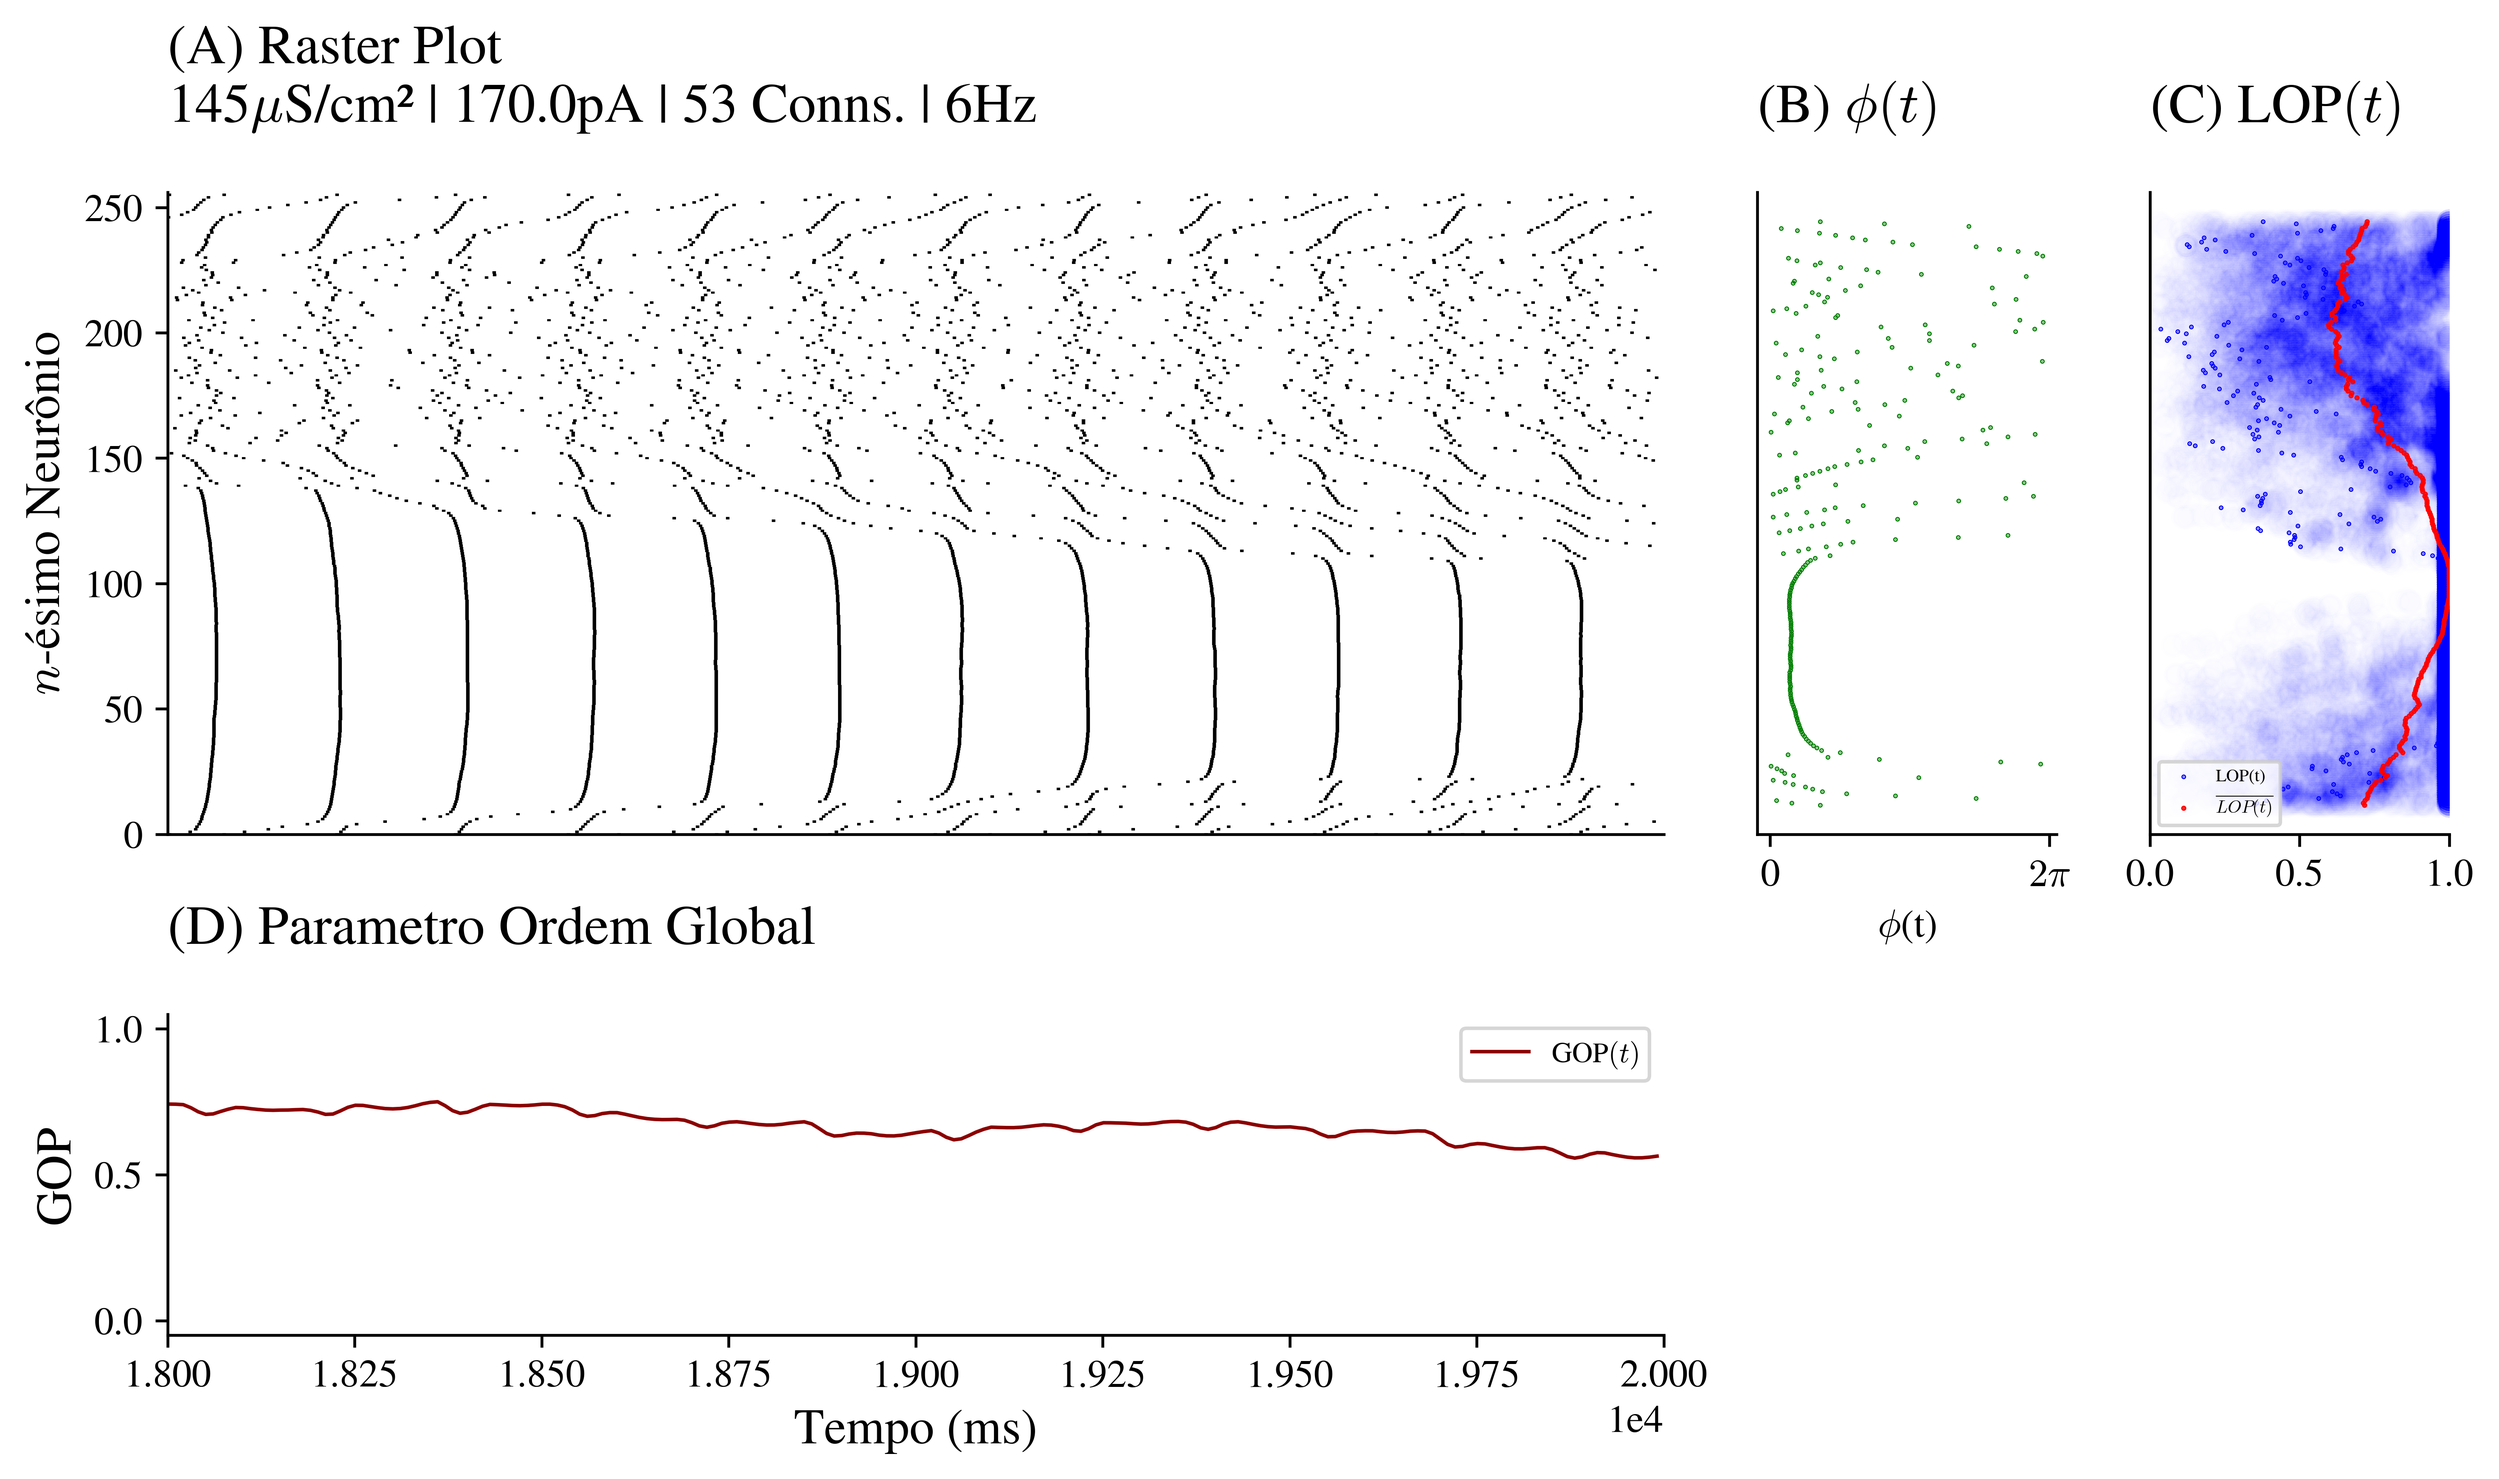
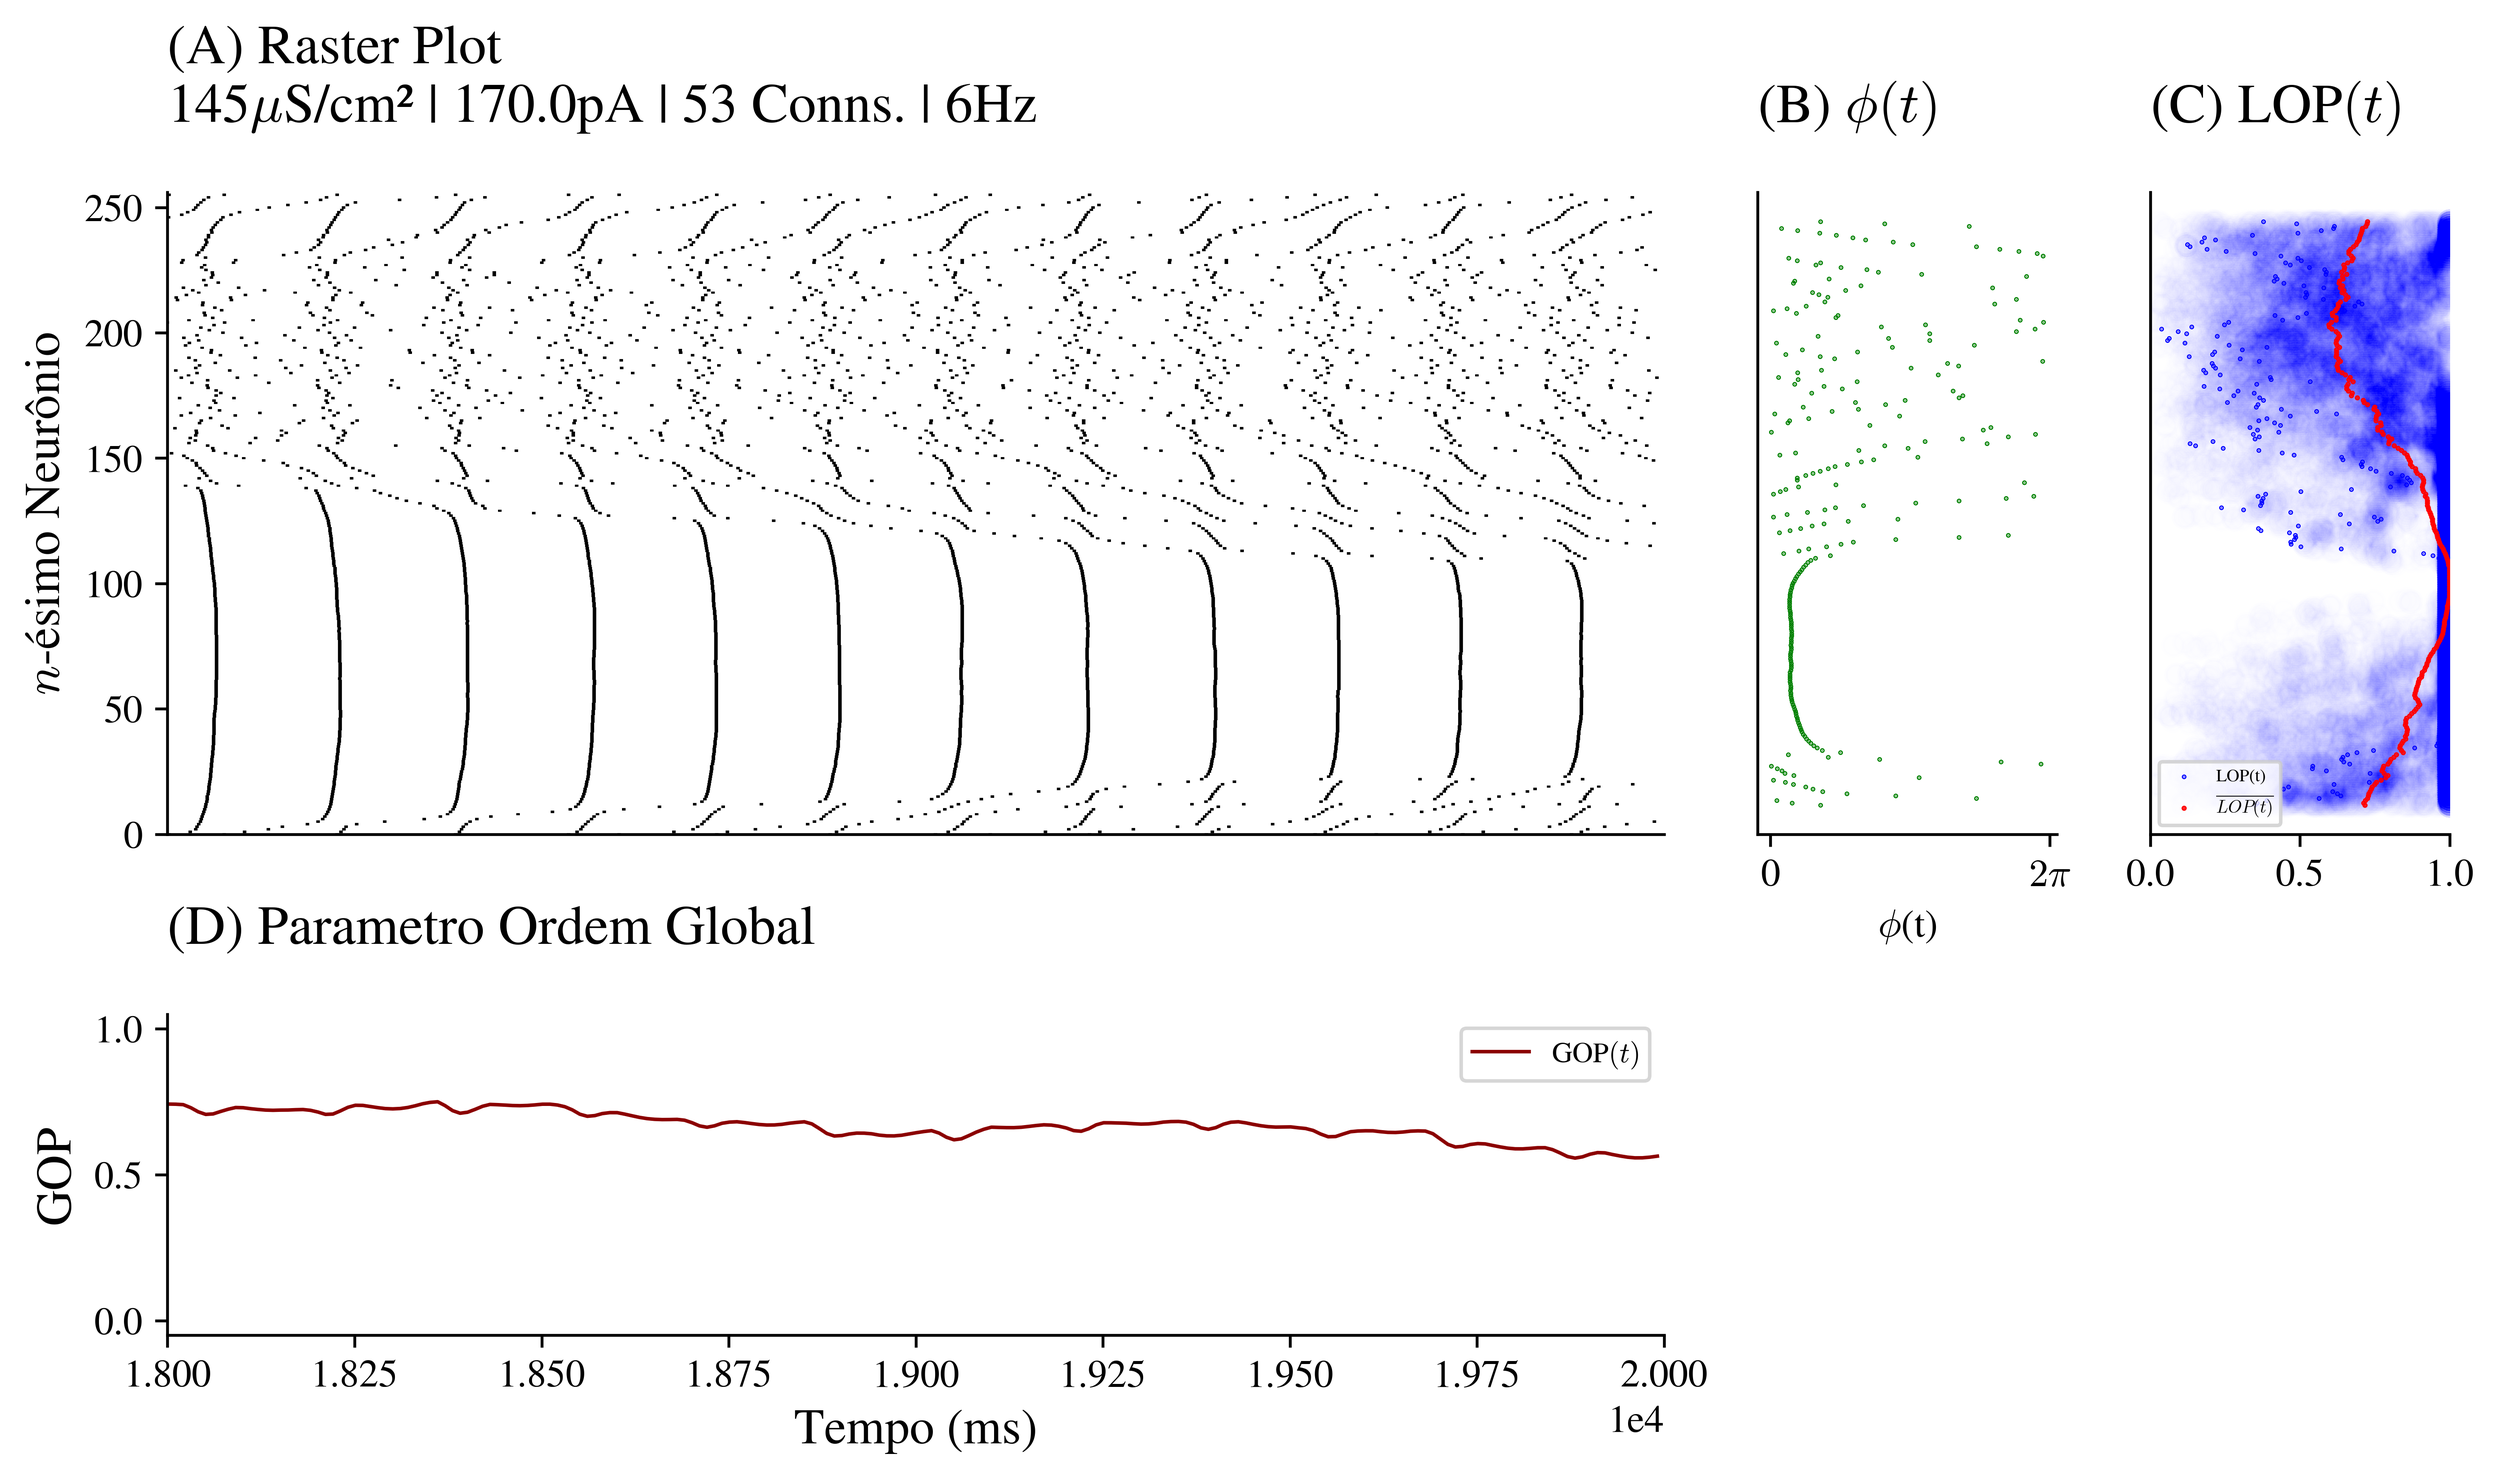
codes and figures

diff --git a/pycodes/plotNetwork.py b/pycodes/plotNetwork.py
@@ -5,6 +5,35 @@ import matplotlib.font_manager
 import os
 import sys
 
+def get_matriz_Adjacência(n, p, numExtraConex = 0):
+    conex = np.zeros((n, n))  # acoplamento não-local
+    for i in range(n):
+        for k in range(i - p, i + p + 1):
+            j = k % n  # Utilize o operador de módulo para garantir que j permaneça dentro do intervalo correto
+            if i != j:
+                conex[i, j] = 1  # Defina 1 para representar a existência de uma aresta
+
+    # Introduzir conexões aleatórias
+    conex_smll = np.zeros_like(conex)
+    conex_smll += conex
+
+    for linha, conexoes in enumerate(conex_smll):
+        for conexExtra in range(numExtraConex):
+            idx_nova_conex = np.random.randint(0, n)  # gera índice aleatório de 0 a n
+            if idx_nova_conex == 0 or idx_nova_conex == n:
+                idx_nova_conex = idx_nova_conex % n
+
+            if conexoes[idx_nova_conex] != 1:
+                conexoes[idx_nova_conex] = 1
+
+    # Remover autoconexões
+    for i in range(n):
+        conex_smll[i, i] = 0
+
+    return conex_smll
+
+
+
 def plot_params():
     # plt.rc('text', usetex=True)
     plt.rc('font', size=13)
@@ -14,23 +43,18 @@ def plot_params():
     plt.rc('legend', fontsize=8)
     plt.rc('lines', linewidth=1.0)
     plt.rcParams["axes.formatter.limits"] = (-3, 4)
-    # plt.rc('font', **{'family': 'serif', 'serif': ['Computer Modern']})
+    plt.rc('font', **{'family': 'serif', 'serif': ['Computer Modern']})
     plt.rcParams['mathtext.fontset'] = 'cm'
     plt.rcParams['font.family'] = 'STIXGeneral'
 
 plot_params()
 
 v = str(sys.argv[1])
-batch = sys.argv[2]
-batch_number = 'batch'+str(batch.zfill(4))
-subbatch = sys.argv[3]
-subbatch_number = '0_'+str(subbatch)
-# file = f'../data3/v{v}_{batch_number}/v{v}_{batch_number}_{subbatch_number}'
-folder = f'../data/v{v}_{batch_number}/'
-file = f'../data/v{v}_{batch_number}/v{v}_{batch_number}_0'
+i = str(sys.argv[2])
+j = str(sys.argv[3])
+folder = f'figuresV2'
+file = f'../{folder}/v{v}_batch1_{i}_{j}'
 
-# file = f'../data/v{v}_batch{batch}/v{v}_batch{batch}_0_{subbatch}'
-# file = f'../data/v0_batch0/v0_batch0'
 print('~~ Plot Raster, LOP, Phase and GOP.')
 print(f'Reading: "{file}"')
 
@@ -44,9 +68,7 @@ neighbours = data['simConfig']['n_neighbors']
 freq_mean = data['freq_bar'].mean()
 coresPerNode = data['simConfig']['coresPerNode']
 
-neuronsPerCore = int(cellNumber)/int(coresPerNode)
-
-infos = f'{neuronsPerCore} neuronios por core'
+adj_matrix = get_matriz_Adjacência(cellNumber, neighbours, 0)
 
 x = np.zeros(cellNumber)
 z = np.zeros(cellNumber)
@@ -60,10 +82,18 @@ cm = 1/2.54  # centimeters in inches
 f, ax = plt.subplots(figsize=(12*cm, 12*cm))
 ax.spines['right'].set_visible(False)
 ax.spines['top'].set_visible(False)
-ax.scatter(x,z, s=0.5, color='black')
+
+# Traçar linhas com base na matriz de adjacência
+for i in range(len(x)):
+    for j in range(len(x)):
+        if adj_matrix[i, j] != 0:
+            ax.plot([x[i], x[j]], [z[i], z[j]], linestyle='-', color='blue', alpha=0.05)
+
+ax.scatter(x,z, s=5, color='black')
 ax.set_xlabel('$X$  $(\mu m)$')
 ax.set_ylabel('$Z$  $(\mu m)$')
-ax.set_title(infos, fontsize=11, loc='left', pad=20)
 
-print('->'+f'../AnalysisV{v}_n{len(x)}_{gex}Scm2_{amp:.1f}pA_r{neighbours/cellNumber:.2f}neigh_{int(freq_mean)}Hz.png')
-plt.savefig(folder+f'NetWorkV{v}_n{len(x)}_{gex}Scm2_{amp:.1f}pA_r{neighbours/cellNumber:.2f}neigh_{int(freq_mean)}Hz.png', dpi=600, bbox_inches='tight', format='png')
+# ax.set_xlim(40,60)
+# ax.set_ylim(0,20)
+
+plt.savefig(file+'_rede.png', dpi=600, bbox_inches='tight', format='png')

diff --git a/pycodes/plotSpace.py b/pycodes/plotSpace.py
@@ -103,6 +103,7 @@ import pickle
 import numpy as np
 from matplotlib import pyplot as plt
 import matplotlib.colors as mcolors
+import matplotlib.ticker as plticker
 from matplotlib.colors import LinearSegmentedColormap, ListedColormap
 import locale
 import latex
@@ -125,9 +126,10 @@ def plot_params():
     plt.rcParams['pcolor.shading'] = 'nearest'
 plot_params()
 
-file = 'space_param_v2_batch1_copy'
+
 
 v = 1
+file = f'space_param_v{v}_batch1'
 resol = 32
 with open(f'../results_spaceparams/{file}.pkl', 'rb') as f:
     data_space_param = pickle.load(f)
@@ -165,8 +167,8 @@ fig, ax = plt.subplots(ncols=2, nrows=2, figsize=(8,6))
 fig.set_tight_layout(20)
 # fig.suptitle('Rede de 256 neurônios, transiente 24s, amostra 1s,\n $g_{ex} = 250 \\mu S/cm²$')
 
-# tg, ig = np.meshgrid(axis_neighbours[1:]/256, axis_gex[1:])
-tg, ig = np.meshgrid(axis_amp[1:]*1000, axis_gex[1:])
+tg, ig = np.meshgrid(axis_neighbours[1:]/256, axis_gex[1:])
+# tg, ig = np.meshgrid(axis_amp[1:]*1000, axis_gex[1:])
 
 # ax[0][0].set_title('$\overline{GOP(t)}$')
 ax[0][0].set_title('(A)', loc='left',pad=10)
@@ -192,16 +194,20 @@ hm02 = ax[1][1].pcolor(ig, tg, mean_cv_arr, cmap='gnuplot')
 cbar02 = fig.colorbar(hm02, ax=ax[1][1])#, cax=cax1, format=formater)
 cbar02.set_label(r'$CV$')
 
-# for linha in ax:
-#     for coluna in linha:
-#         coluna.set_ylim(None,0.4)
-#         coluna.set_xlim(1e-4,3.5e-4)
+step_y = plticker.MultipleLocator(base=0.05) # this locator puts ticks at regular intervals
+step_x = plticker.MultipleLocator(base=0.5e-4)
+for linha in ax:
+    for coluna in linha:
+        coluna.yaxis.set_major_locator(step_y)
+        coluna.xaxis.set_major_locator(step_x)
+        coluna.set_ylim(None,0.36)
+        coluna.set_xlim(None,4.e-4)
 
-ax[0][0].set_ylabel('$I_{ext}$ ($pA$)')
-ax[1][0].set_ylabel('$I_{ext}$ ($pA$)')
+# ax[0][0].set_ylabel('$I_{ext}$ ($pA$)')
+# ax[1][0].set_ylabel('$I_{ext}$ ($pA$)')
 
-# ax[0][0].set_ylabel('$r$')
-# ax[1][0].set_ylabel('$r$')
+ax[0][0].set_ylabel('$r$')
+ax[1][0].set_ylabel('$r$')
 ax[1][0].set_xlabel('$g_{ex}$ ($mS/cm²$)')
 ax[1][1].set_xlabel('$g_{ex}$ ($mS/cm²$)')
 

diff --git a/pycodes/plotAll.py b/pycodes/plotAll.py
@@ -102,8 +102,8 @@ def plotAll(t_peaks, last_phases, lop_sample, mean_lop, last_lop, t_phase, gop_s
 v = str(sys.argv[1])
 i = str(sys.argv[2])
 j = str(sys.argv[3])
-folder = f'../figures/'
-file = f''
+folder = f'../figuresV2/'
+file = f'../figuresV2/v{v}_batch1_{i}_{j}'
 
 # file = f'../data/v{v}_batch{batch}/v{v}_batch{batch}_0_{subbatch}'
 # file = f'../data/v0_batch0/v0_batch0'
